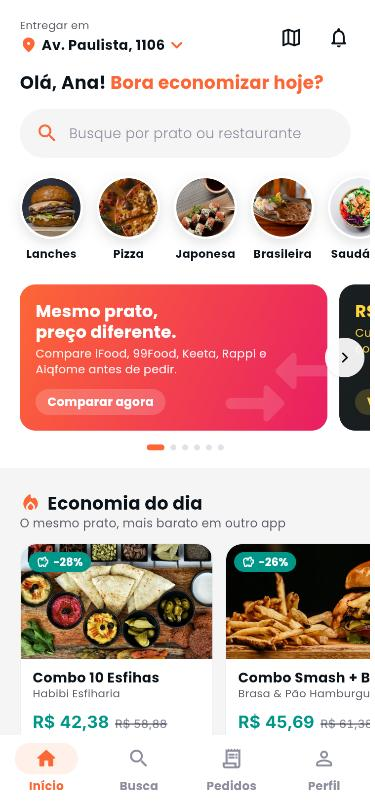
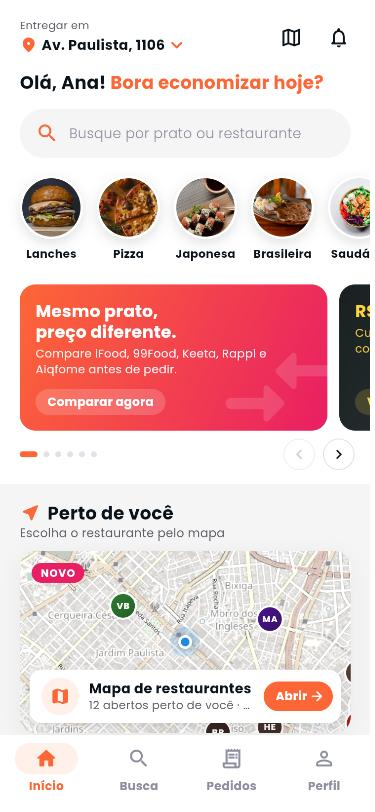
docs: mapa na Início e na Busca, print atualizado

Changed region(s): [[0.0293, 0.5542, 0.9973, 0.9236], [0.8507, 0.4002, 0.968, 0.4618], [0.3813, 0.5234, 0.44, 0.5542]]

diff --git a/README.md b/README.md
@@ -26,7 +26,7 @@ Agregador que compara o preço, a taxa de entrega e os cupons do **mesmo prato**
 | --- | --- |
 | **Comparador** (preço do item + frete + taxa − cupom) | ✅ Tela de comparação com o total nos 5 apps, do mais barato ao mais caro: detalhamento, economia em R$ e %, quantidade, pedido mínimo e "faltam R$ X para usar o cupom" |
 | **Busca global** por prato ou restaurante | ✅ Busca sem acento, sinônimos, buscas populares/recentes, abas Pratos e Restaurantes · ⏳ filtros (Parte 2) |
-| **Mapa interativo** | ✅ Restaurantes próximos no mapa (OpenStreetMap), com a economia de cada um no pino, filtro por categoria e cards sincronizados com o mapa |
+| **Mapa interativo** | ✅ Restaurantes próximos no mapa (OpenStreetMap), com a economia de cada um no pino, filtro por categoria e cards sincronizados com o mapa. Aparece em destaque na Início ("Perto de você") e em miniatura na Busca |
 | **Deep link** para o app mais barato | ✅ Tela de redirecionamento, cupom para copiar e abertura do app escolhido |
 | **Localização integrada** | ✅ Endereço no topo da Home e centro do mapa · ⏳ tela de endereços (Parte 1) |
 | Login | ✅ Login simulado com validação, conta demo e "Explorar sem conta" |
@@ -206,7 +206,7 @@ Detalhes de cada parte, arquivos e critérios de aceite: **[docs/cp5/TAREFAS.md]
 
 1. **Splash → Login:** mostrar a validação, tocar em **Conta demo** e entrar.
 2. **Início:** endereço, categorias, o carrossel com um cupom de cada app e a vitrine **Economia do dia**.
-3. **Mapa:** restaurantes próximos com a economia no pino; filtrar por categoria e abrir um restaurante pelo card.
+3. **Mapa:** tocar no card "Perto de você" da Início; mostrar a economia no pino, filtrar por categoria e abrir um restaurante pelo card.
 4. **Busca "pizza":** o cardápio mais barato (99Food) **não** é o melhor total (iFood, com frete grátis + cupom). Essa é a proposta do app.
 5. **Restaurante:** condições em cada app (frete, tempo, mínimo), cupons e cardápio comparado.
 6. **Comparar:** mudar a quantidade, ver pedido mínimo, cupom aplicado e economia; **Pedir no app** abre o app vencedor.

diff --git a/docs/cp5/TAREFAS.md b/docs/cp5/TAREFAS.md
@@ -11,7 +11,7 @@ O protótipo já tem a **base completa** e o **fluxo principal funcionando**: Sp
 - [x] Regra de preço testada: `PriceCalculator` (itens + entrega + taxa − melhor cupom, pedido mínimo, empate, cupom de 1º pedido)
 - [x] Supabase: `schema.sql`, `seed.sql`, leitura do catálogo e modo offline automático
 - [x] Navegação com rotas nomeadas e as 4 abas (Início, Busca, Pedidos, Perfil)
-- [x] Telas: Splash, Login (com conta demo), Início, Busca, **Mapa interativo**, Restaurante e Comparação + redirecionamento para o app
+- [x] Telas: Splash, Login (com conta demo), Início, Busca, **Mapa interativo** (com prévia na Início e na Busca), Restaurante e Comparação + redirecionamento para o app
 - [x] Testes automatizados (`flutter test`) e análise sem avisos (`flutter analyze`)
 - [x] README com instruções, decisões técnicas e roteiro da demo
 
@@ -91,7 +91,7 @@ Por fim, troque o "⏳" da sua parte por "✅" na tabela de status do `README.md
 | `AppServices.favorites` | Favoritos (`isFavorite`, `toggle`, `ids`) |
 | `AppServices.orders` | Pedidos (`orders`, `register(...)`, `totalSavings`) |
 | `AppRoutes` | Nomes das rotas (`AppRoutes.login`, `.restaurant`, `.compare`, `.map`, `.coupons`…) |
-| `RestaurantCard`, `DishTile`, `PlatformBadge`, `SavingsBadge`, `PromoTag`, `FoodImage`, `RestaurantLogo`, `SectionHeader`, `QuantityStepper`, `DataSourceChip`, `CategoryTile` | Widgets prontos em `lib/widgets/` |
+| `RestaurantCard`, `DishTile`, `PlatformBadge`, `SavingsBadge`, `PromoTag`, `FoodImage`, `RestaurantLogo`, `SectionHeader`, `QuantityStepper`, `DataSourceChip`, `CategoryTile`, `MapPreviewCard` | Widgets prontos em `lib/widgets/` |
 | `Fmt` | Formatação: `brl`, `fee`, `percent`, `deliveryTime`, `distance` |
 
 > Para ver como usar, olhe as telas prontas: `home_screen.dart`, `map_screen.dart`, `restaurant_screen.dart` e `comparison_screen.dart`.
